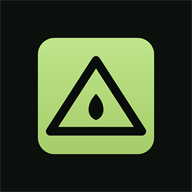
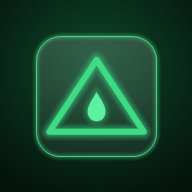
Ícone no estilo neon (vidro verde com brilho); nova versão do cache

diff --git a/index.html b/index.html
@@ -5,7 +5,7 @@
 <meta name="viewport" content="width=device-width,initial-scale=1,maximum-scale=1,user-scalable=no">
 <meta name="apple-mobile-web-app-capable" content="yes">
 <meta name="apple-mobile-web-app-status-bar-style" content="black-translucent">
-<meta name="theme-color" content="#090e0b">
+<meta name="theme-color" content="#04150d">
 <link rel="manifest" href="manifest.json">
 <link rel="apple-touch-icon" href="icon-192.png">
 <link rel="preconnect" href="https://fonts.googleapis.com"><link rel="preconnect" href="https://fonts.gstatic.com" crossorigin><link rel="stylesheet" href="https://fonts.googleapis.com/css2?family=Manrope:wght@400;500;600;700;800&display=swap" media="print" onload="this.media='all'">

diff --git a/sw.js b/sw.js
@@ -1,4 +1,4 @@
-const CACHE = 'pvgest-v9';
+const CACHE = 'pvgest-v10';
 const ASSETS = ['./', './index.html', './style.css', './app.js', './manifest.json', './icon-192.png', './icon-512.png'];
 // Libs de exportação (PDF/Excel) — precisam estar no cache para funcionar offline
 const CDN_ASSETS = [
